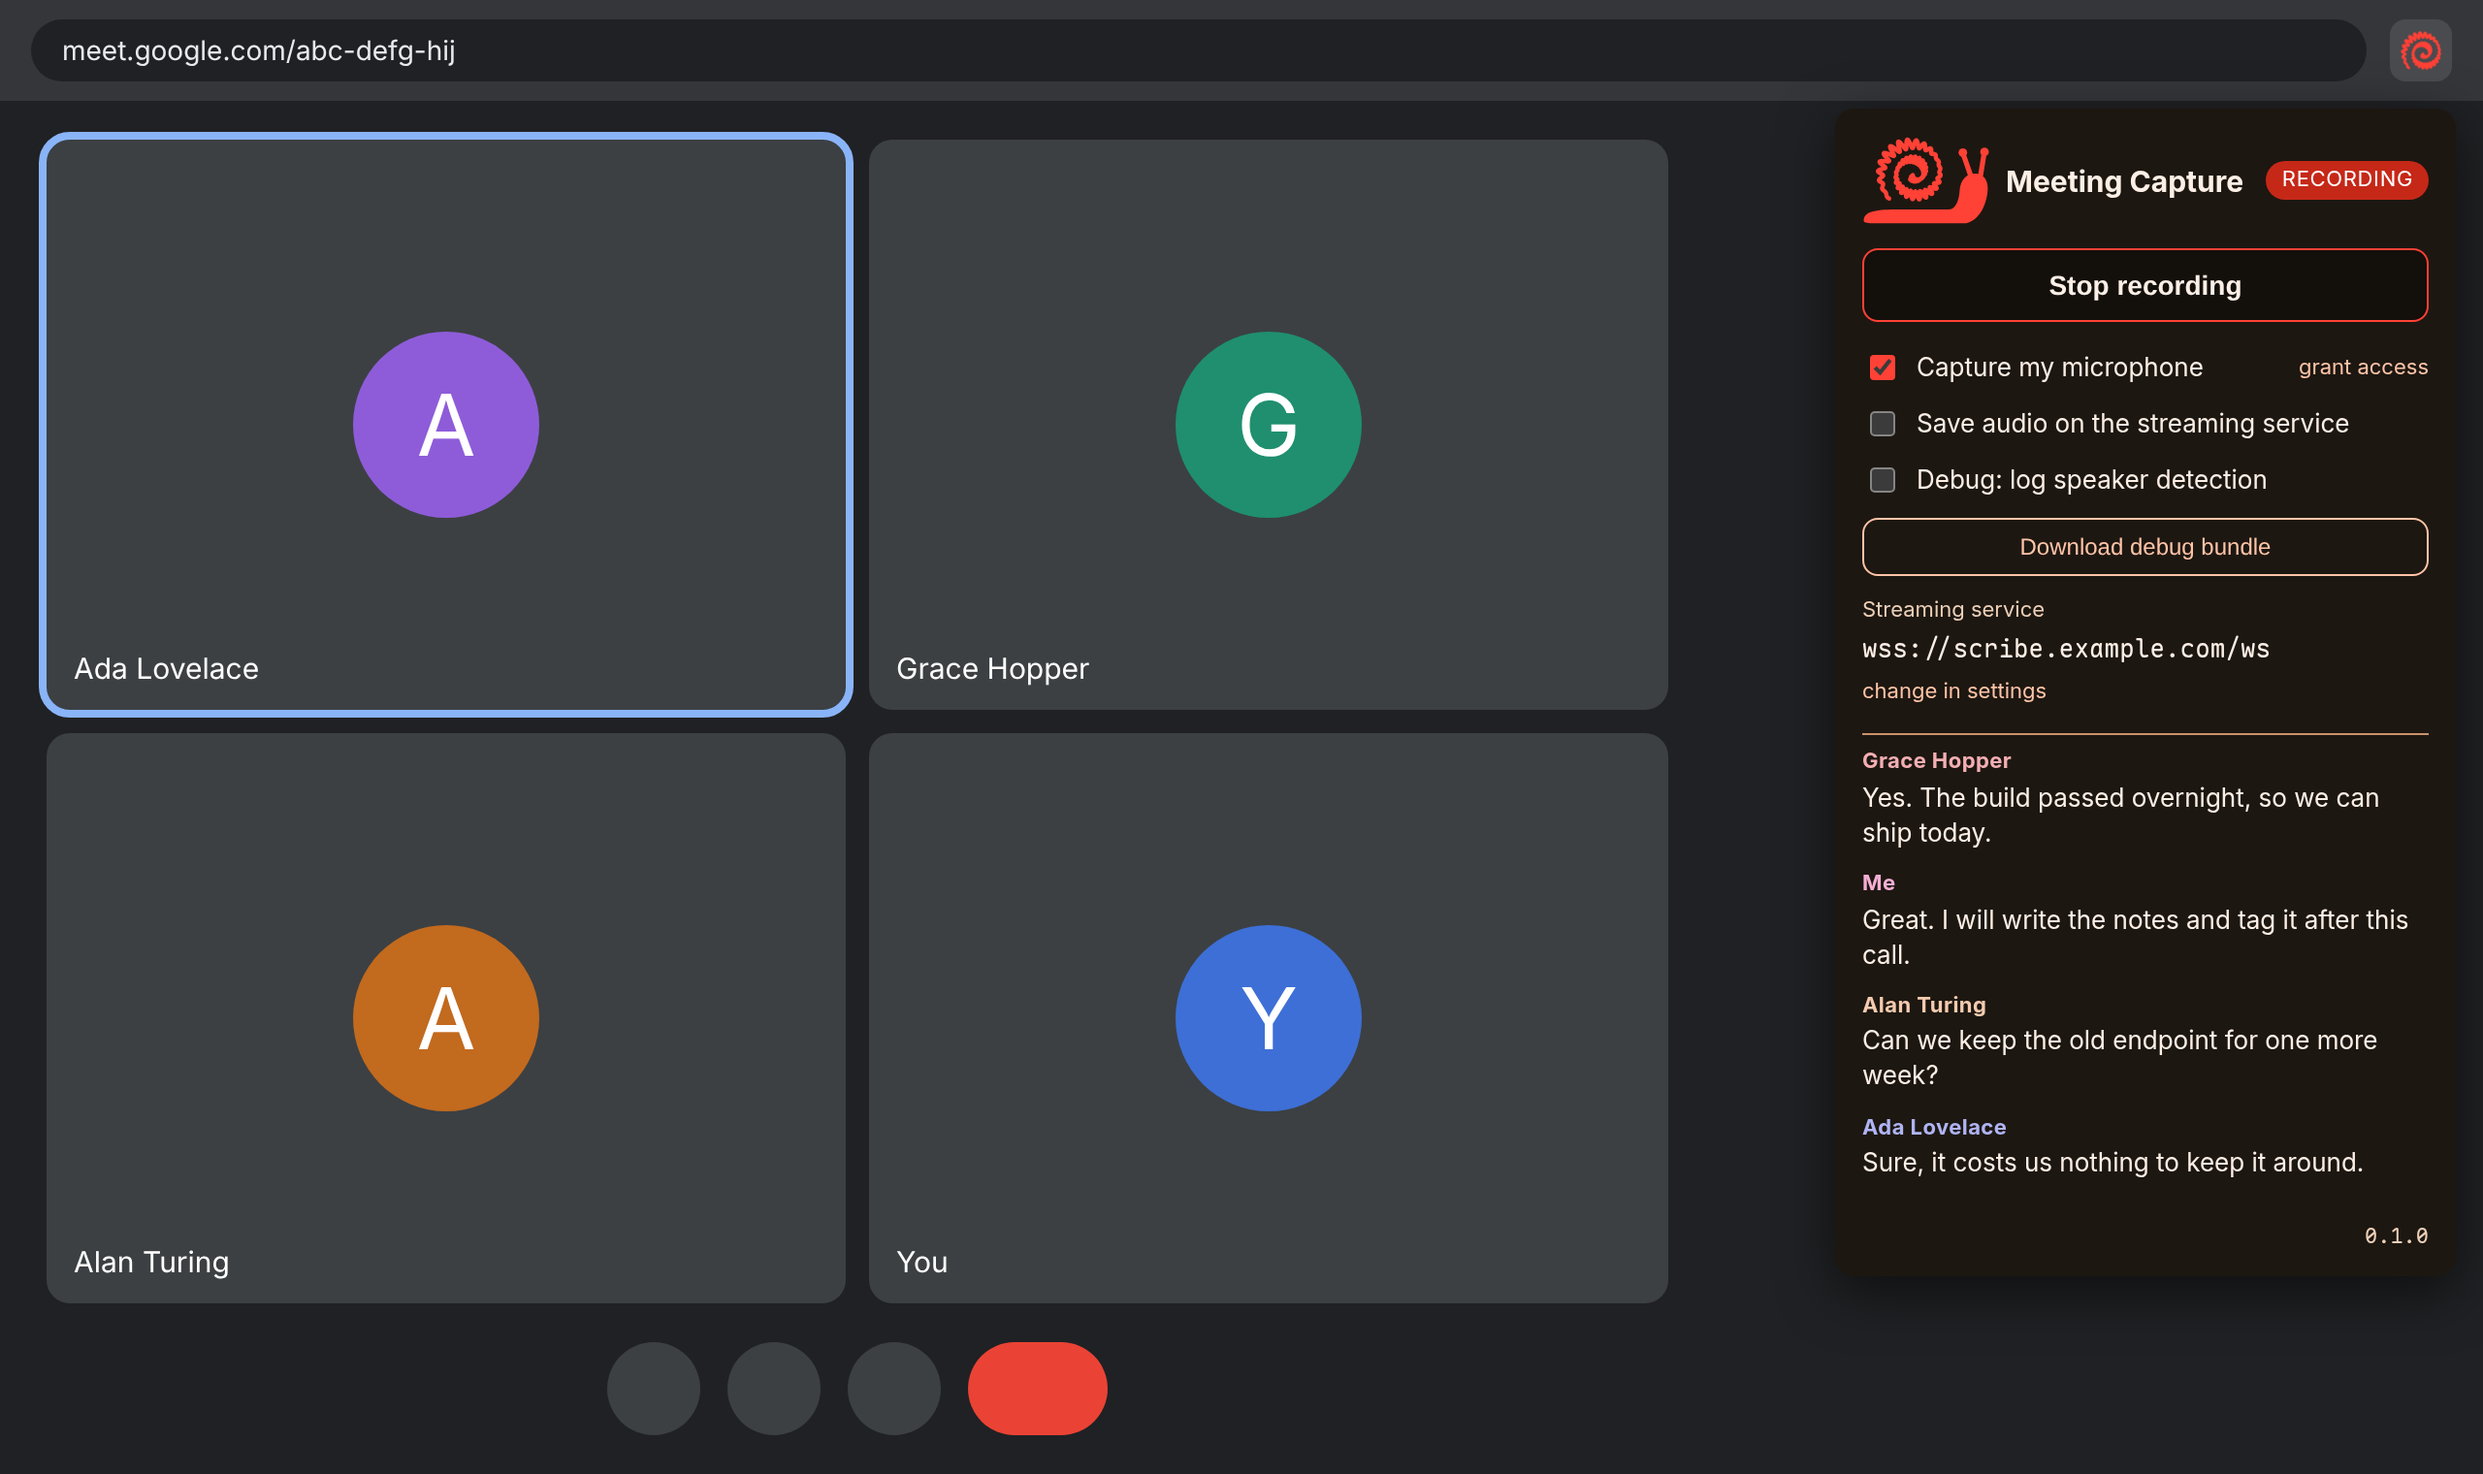
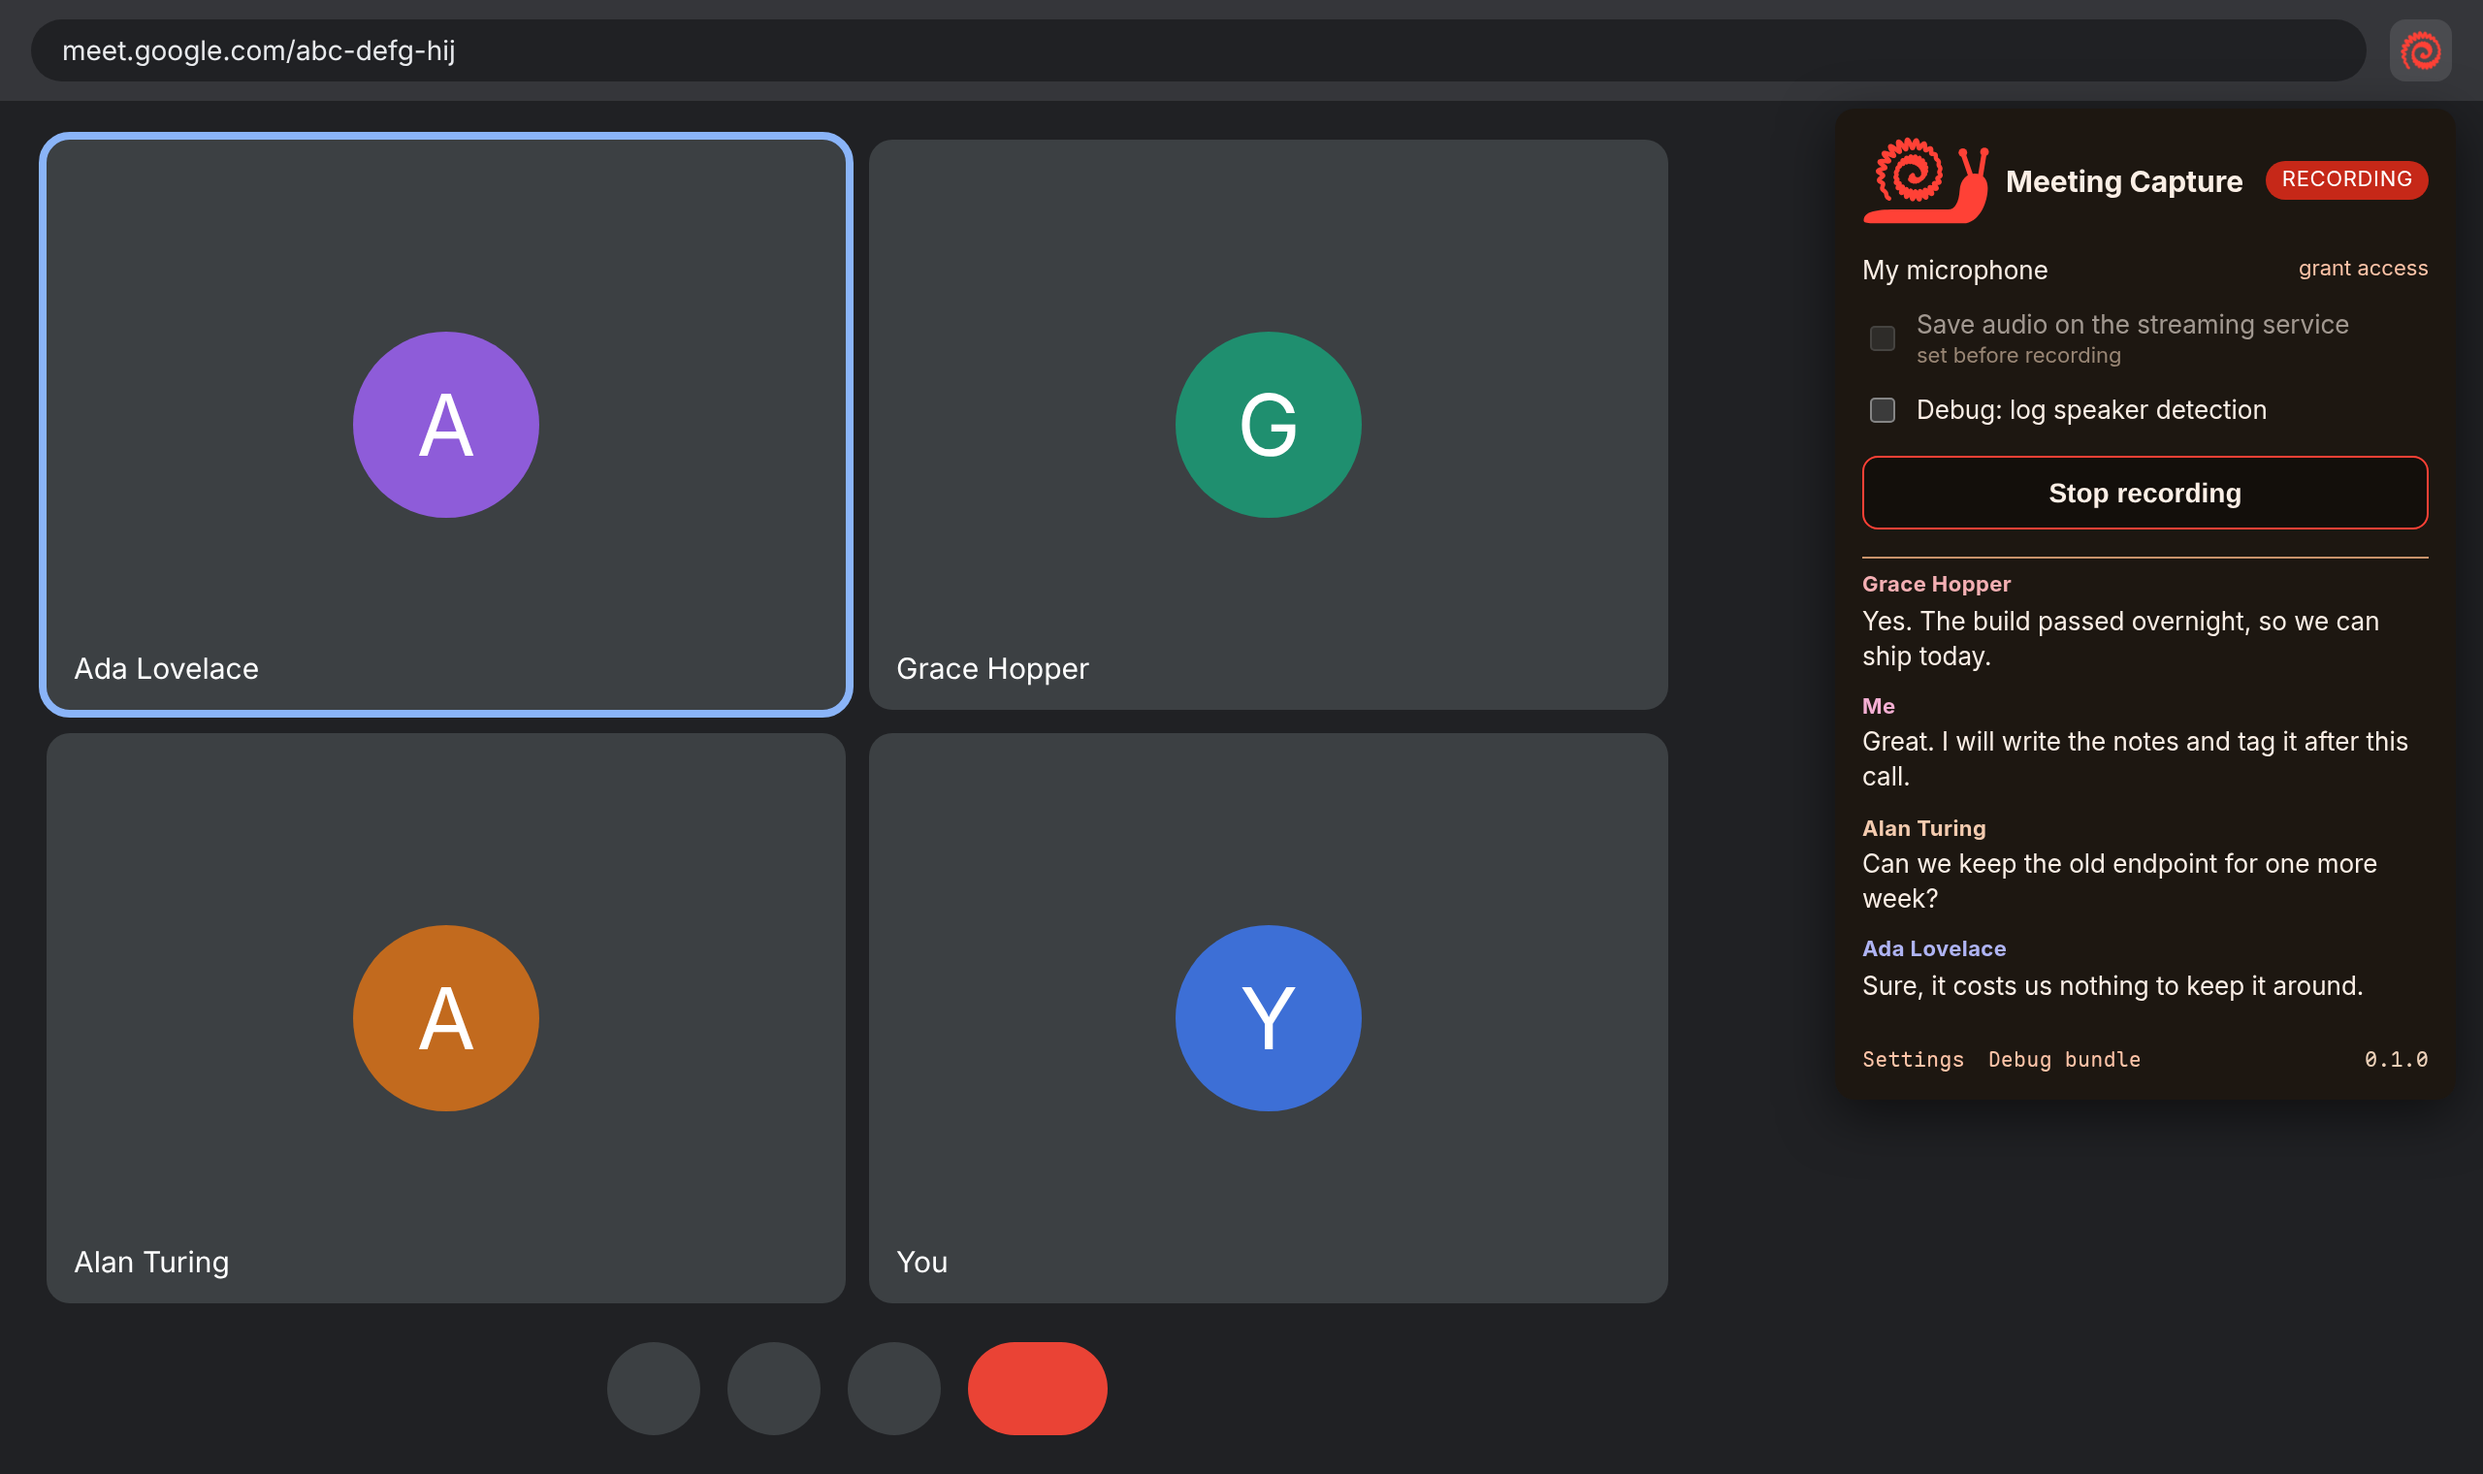
fix(popup): options above the record button, server address gone
The checkboxes are set before recording, so they come first. The streaming service block only repeated the settings page, so it is gone; Settings and the debug bundle are footer links, which keeps the bundle button from crowding the record button. The README screenshot is regenerated.

Changed region(s): [[0.75, 0.1855, 0.9688, 0.8039], [0.75, 0.1546, 0.8125, 0.1855], [0.9375, 0.1546, 0.9688, 0.1855]]

diff --git a/extension/src/popup.html b/extension/src/popup.html
@@ -13,8 +13,6 @@
       <span id="status" class="status idle">idle</span>
     </header>
 
-    <button id="record" class="primary">Start recording</button>
-
     <section class="options">
       <div class="row">
         <span>My microphone</span>
@@ -35,15 +33,9 @@
         <input type="checkbox" id="debug" />
         <span>Debug: log speaker detection</span>
       </label>
-
-      <button id="exportDebug" class="secondary">Download debug bundle</button>
-
-      <div class="field">
-        <span>Streaming service</span>
-        <code id="wsUrl"></code>
-        <a id="openOptions" href="#" class="link">change in settings</a>
-      </div>
     </section>
+
+    <button id="record" class="primary">Start recording</button>
 
     <div id="error" class="error hidden"></div>
     <div id="warning" class="warning hidden"></div>
@@ -59,7 +51,15 @@
       <div id="transcript" class="script"></div>
     </section>
 
-    <footer id="build" class="build"></footer>
+    <footer class="build">
+      <span class="links">
+        <a id="openOptions" href="#" class="link">Settings</a>
+        <button type="button" id="exportDebug" class="link">
+          Debug bundle
+        </button>
+      </span>
+      <span id="build"></span>
+    </footer>
 
     <script type="module" src="./popup.ts"></script>
   </body>

diff --git a/extension/src/popup.ts b/extension/src/popup.ts
@@ -1,5 +1,5 @@
 import mark from '../../assets/logo/mark.svg';
-import { BUILD, getSettings, setSettings, splitServerUrl } from './config';
+import { BUILD, getSettings, setSettings } from './config';
 import {
   getState,
   JOIN_SESSION_KEY,
@@ -26,7 +26,6 @@ const debugToggle = $<HTMLInputElement>('debug');
 const saveAudioToggle = $<HTMLInputElement>('saveAudio');
 const saveAudioNote = $<HTMLElement>('saveAudioNote');
 const exportBtn = $<HTMLButtonElement>('exportDebug');
-const wsUrlEl = $<HTMLElement>('wsUrl');
 const micSetupLink = $<HTMLAnchorElement>('micSetup');
 const errorEl = $<HTMLElement>('error');
 const warningEl = $<HTMLElement>('warning');
@@ -89,12 +88,6 @@ async function init(): Promise<void> {
   const settings = await getSettings();
   debugToggle.checked = settings.debug;
   saveAudioToggle.checked = settings.saveAudio;
-  // The token stays out of sight.
-  wsUrlEl.textContent = 'not set';
-  if (settings.wsUrl) {
-    const { url, token } = splitServerUrl(settings.wsUrl);
-    wsUrlEl.textContent = token ? `${url} (with token)` : url;
-  }
   $<HTMLElement>('build').textContent = BUILD;
 
   render(await getState());

diff --git a/extension/src/popup.css b/extension/src/popup.css
@@ -104,6 +104,7 @@ h2 {
 
 button.primary {
   width: 100%;
+  margin-top: 14px;
   padding: 10px;
   font-size: 14px;
   font-weight: 600;
@@ -152,6 +153,7 @@ button.secondary {
   opacity: 0.6;
 }
 .row small {
+  display: block;
   font-size: 11px;
 }
 
@@ -264,11 +266,24 @@ button.secondary {
   font-size: 12px;
 }
 
+.build .links {
+  display: flex;
+  gap: 12px;
+}
+button.link {
+  padding: 0;
+  border: none;
+  background: none;
+  font-family: inherit;
+  cursor: pointer;
+}
 .build {
+  display: flex;
+  justify-content: space-between;
+  align-items: baseline;
   margin-top: 12px;
   font: 11px var(--mono);
   color: var(--muted);
-  text-align: right;
 }
 .field code {
   word-break: break-all;

diff --git a/.changeset/popup_layout.md b/.changeset/popup_layout.md
@@ -1,0 +1,7 @@
+---
+default: patch
+---
+
+# Tidier popup
+
+The options now sit above the record button, the streaming service address is gone (it's on the settings page), and Settings and the debug bundle are links at the bottom.
